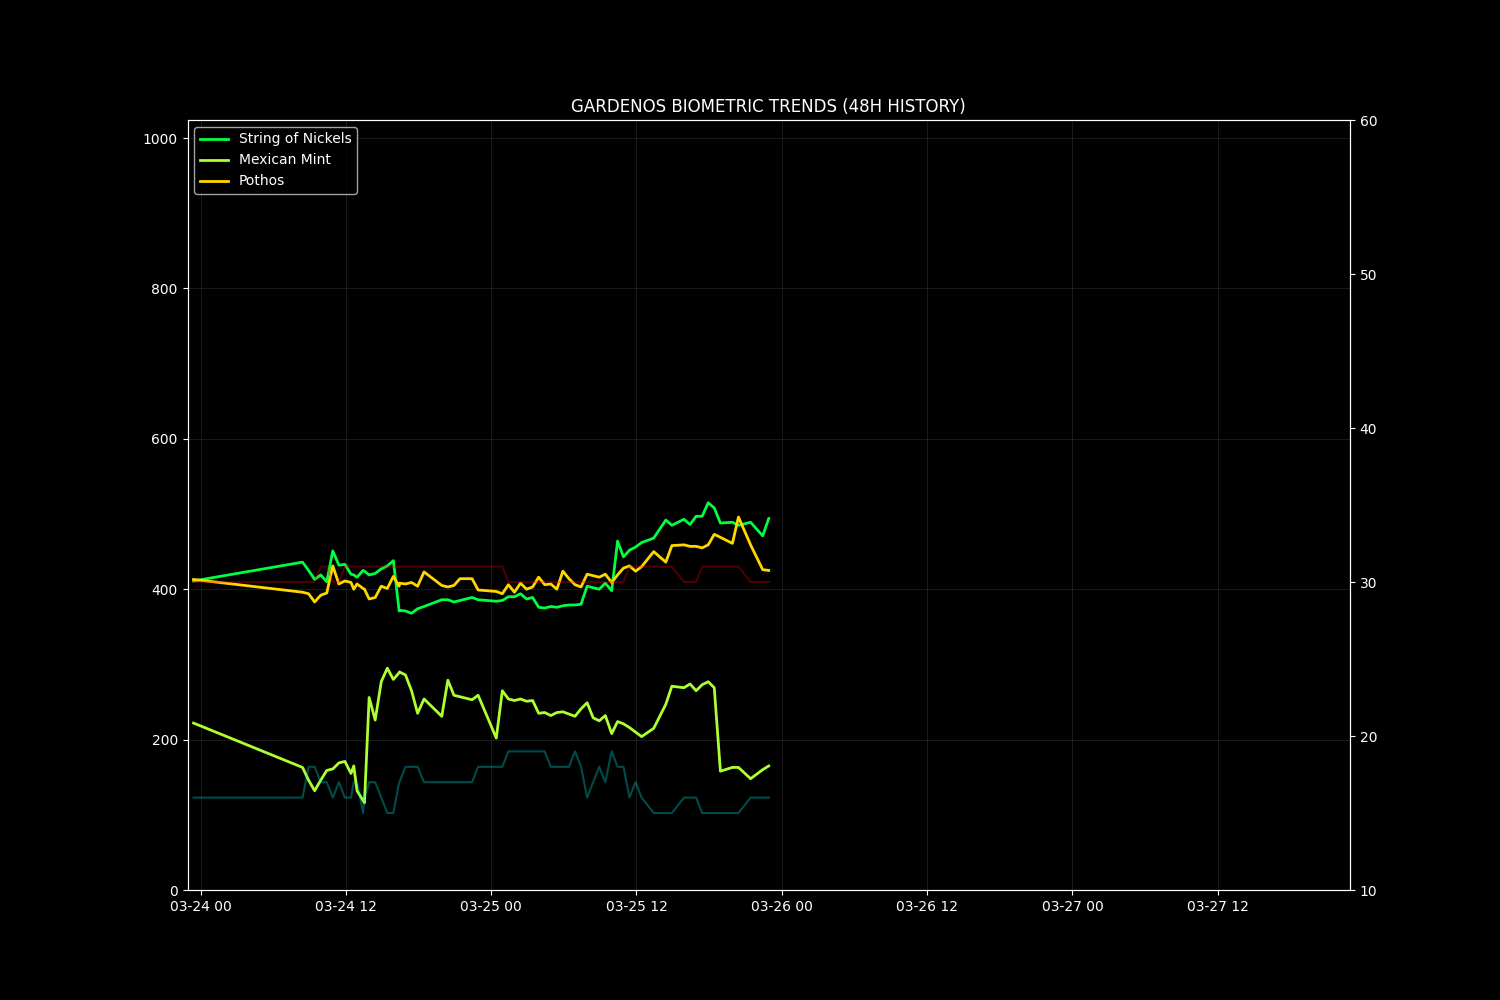
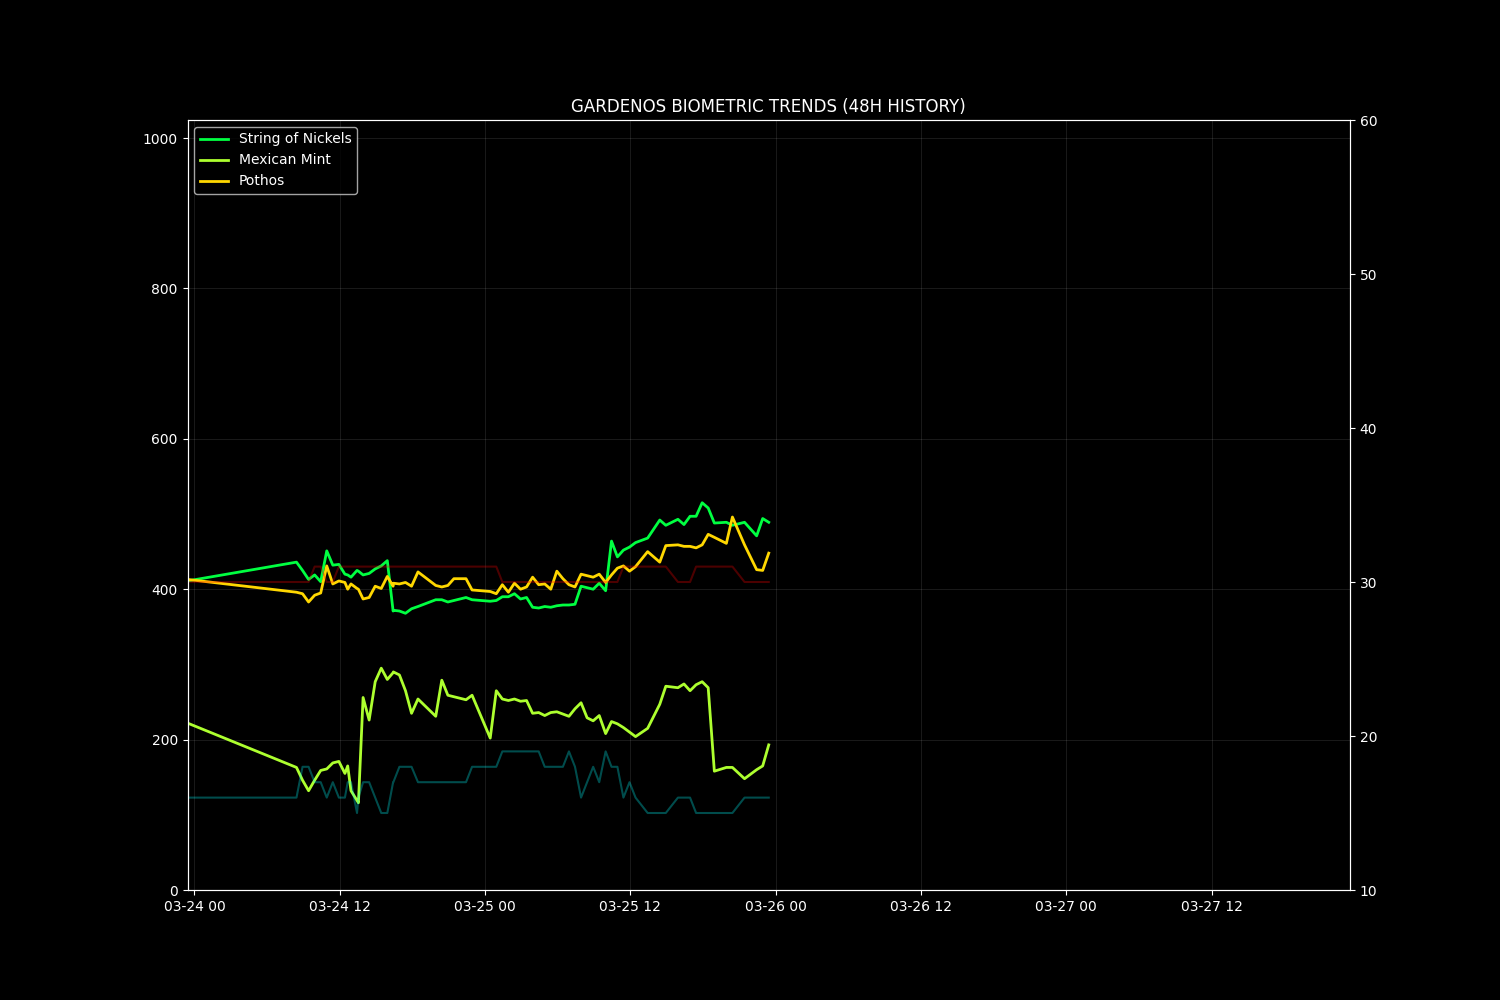
Warden Cycle: 2026-03-25 23:25:29

diff --git a/docs/data/observer_context.md b/docs/data/observer_context.md
@@ -1,21 +1,21 @@
 # 📝 Garden Observer Context
-**Generated:** 2026-03-25 18:59:16
+**Generated:** 2026-03-25 22:58:02
 
 ## 1. 🌡 Recent Telemetry (Last 12 Readings)
 ```csv
 timestamp,temp,hum,light,p1,p2,p3
-2026-03-25 17:55:33,31.0,15.0,820,515.0,277.0,459.0
-2026-03-25 18:25:28,31.0,15.0,843,508.0,269.0,473.0
-2026-03-25 18:55:57,31.0,15.0,852,488.0,158.0,469.0
+2026-03-25 21:25:28,30.0,16.0,852,489.0,148.0,459.0
+2026-03-25 22:25:29,30.0,16.0,855,471.0,160.0,426.0
+2026-03-25 22:55:28,30.0,16.0,906,494.0,165.0,425.0
 
 ```
 
 ## 2. 📊 Computed Metrics (Last 12 Calculations)
 ```csv
 timestamp,vpd,p1_pct,p1_slope,p2_pct,p2_slope,p3_pct,p3_slope,p4_pct,p4_slope,p5_pct,p5_slope,p6_pct,p6_slope,p1_is_dry,p2_is_dry,p3_is_dry
-2026-03-25 17:55:33,3.819,65.0,,69.1,,61.3,,,,,,,,False,False,False
-2026-03-25 18:25:28,3.819,67.2,,72.5,,57.3,,,,,,,,False,False,False
-2026-03-25 18:55:57,3.819,73.3,,100.0,,58.4,,,,,,,,False,False,False
+2026-03-25 21:25:28,3.564,73.0,,100.0,,61.3,,,,,,,,False,False,False
+2026-03-25 22:25:29,3.564,78.5,,100.0,,70.7,,,,,,,,False,False,False
+2026-03-25 22:55:28,3.564,71.5,,100.0,,70.9,,,,,,,,False,False,False
 
 ```
 
@@ -105,12 +105,6 @@ timestamp,vpd,p1_pct,p1_slope,p2_pct,p2_slope,p3_pct,p3_slope,p4_pct,p4_slope,p5
 ## 4. 📖 Previous Ledger Entries (Last 3)
 ## 2026-03-25 15:03
 
-**Vitality Pulse**: p1: 🟢 NOMINAL (74
-
----
-
-## 2026-03-25 15:03
-
 **Vitality Pulse**: p1: 🟢 NOMINAL (74% wet) [visual: turgid]; p2: 🟢 NOMINAL (72% wet) [visual: turgid]; p3: 🟢 NOMINAL (62% wet) [visual: turgid]; p4: 🟢 NOMINAL (72% wet) [shared sensor]
 
 **The Biome Discovery**: Soil surface shows no crusting, moisture appears even. Shadow angles consistent with afternoon light (3:03 PM). Sensor wires are secured and not causing any physical stress to plants.
@@ -134,6 +128,20 @@ timestamp,vpd,p1_pct,p1_slope,p2_pct,p2_slope,p3_pct,p3_slope,p4_pct,p4_slope,p5
 **Weather Alignment**: Forecast: 26.3°C, 84% humidity, mist. Current: 31.0°C, 15.0% humidity. Plants show good turgidity, indicating effective water retention. However, the discrepancy between current low humidity and forecast mist warrants vigilance; if humidity does not rise as expected, preemptive misting may be required.
 
 **The Warden's Decision**: Verdict: Anomaly detected: previously noted wilting leaf on p4 is now absent (negative space). All other plants remain healthy. Action: Monitor p4 for any further leaf loss; consider light misting to increase ambient humidity if forecast mist does not materialize.
+
+---
+
+## 2026-03-25 21:03
+
+**Vitality Pulse**: p1: 🟢 NOMINAL (73.3% wet) [visual: turgid]; p2: 🟢 NOMINAL (100.0% wet) [visual: turgid]; p3: 🟢 NOMINAL (58.4% wet) [visual: turgid]; p4: 🟢 NOMINAL (100.0% wet) [visual: turgid] [shared sensor]
+
+**The Biome Discovery**: Soil surface shows no crusting, moisture appears even. Shadow angles consistent with evening light (9:00 PM). Sensor wires are secured and not causing any physical stress to plants.
+
+**Growth Momentum**: Apical Leans: No significant apical lean observed in p1-p3; all exhibit upright growth. Stasis Points: No new stasis points; growth points remain active.
+
+**Weather Alignment**: Forecast: 26.3°C, 84% humidity, mist. Current: 31.0°C, 15.0% humidity (sensor). Plants show good turgidity, indicating effective water retention. However, the discrepancy between current low humidity and forecast mist warrants vigilance; if humidity does not rise as expected, preemptive misting may be required.
+
+**The Warden's Decision**: Verdict: All plants are healthy and well-hydrated. No intervention required. Action: Continue standard monitoring. Prepare for light misting if humidity does not rise as forecasted.
 
 ## 5. ℹ Note to Observer
 - **Visuals supersede sensors**: Cross-reference CSV data with `docs/media/latest.jpg`.
